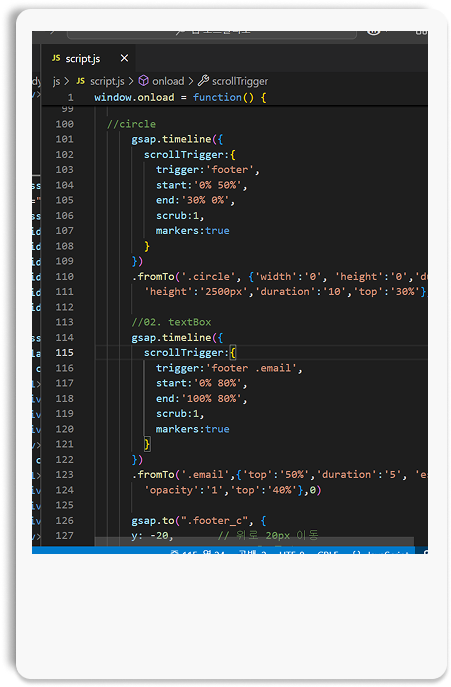
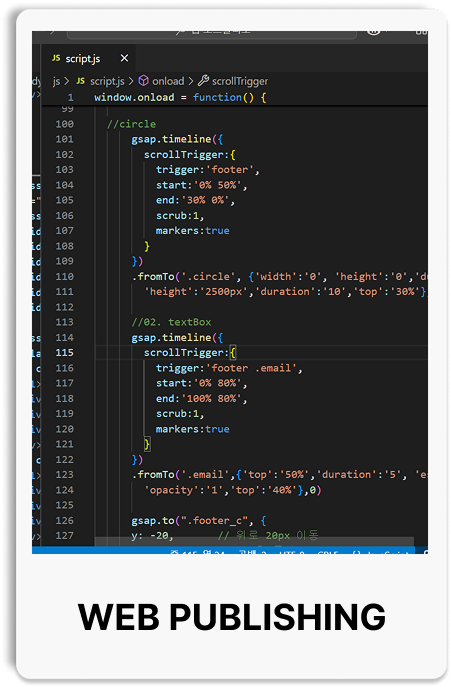
이미지수정

Changed region(s): [[0.1552, 0.8559, 0.8692, 0.917]]

diff --git a/index.html b/index.html
@@ -24,7 +24,7 @@
       <section class="section1">
         <img class="text_main" src="img/main_content.png" alt="웹퍼블리셔포트폴리오">
         <div class="aniBox">
-          <img class="spin" src="img/Ellipse 55.png" alt="도형" class="spin">
+          <img class="spin" src="img/Ellipse 55.svg" alt="도형" class="spin">
           <img class="name" src="img/정민.png" alt="정민">
         </div>
       </section>
@@ -138,7 +138,7 @@
             </div>
             <div class="myskill">
               <h1>License</h1>
-              <div class="s_con">웹디자인 기능사
+              <div class="s_con">웹디자인개발기능사
                 <p class="sc4">2024</p>
               </div>
               <div class="s_con">GTQ 1급

diff --git a/css/index_style.css b/css/index_style.css
@@ -76,6 +76,10 @@ body:before {
   transform: translate(-50%, -100%);
   max-width: 95%;
 }
+.spin{
+  stroke-dasharray: 500;
+  stroke-dashoffset: 500;
+}
 
 .section2 {
   width: 100%;
